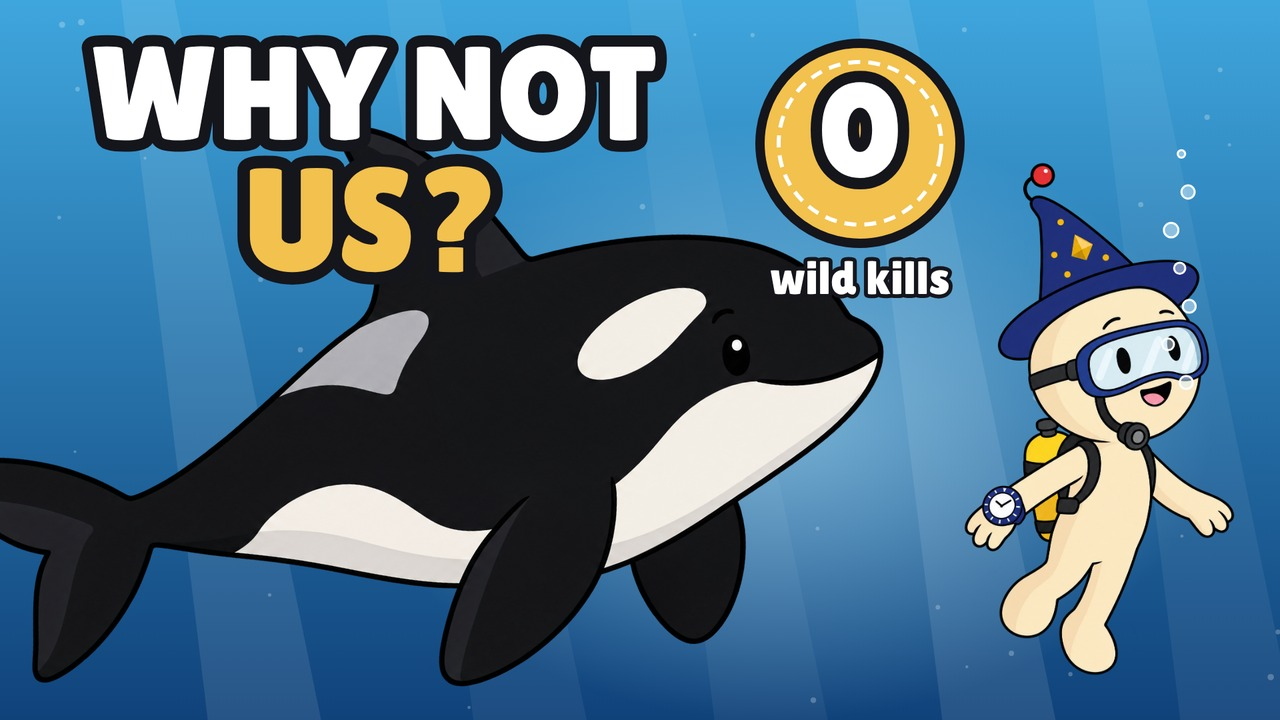
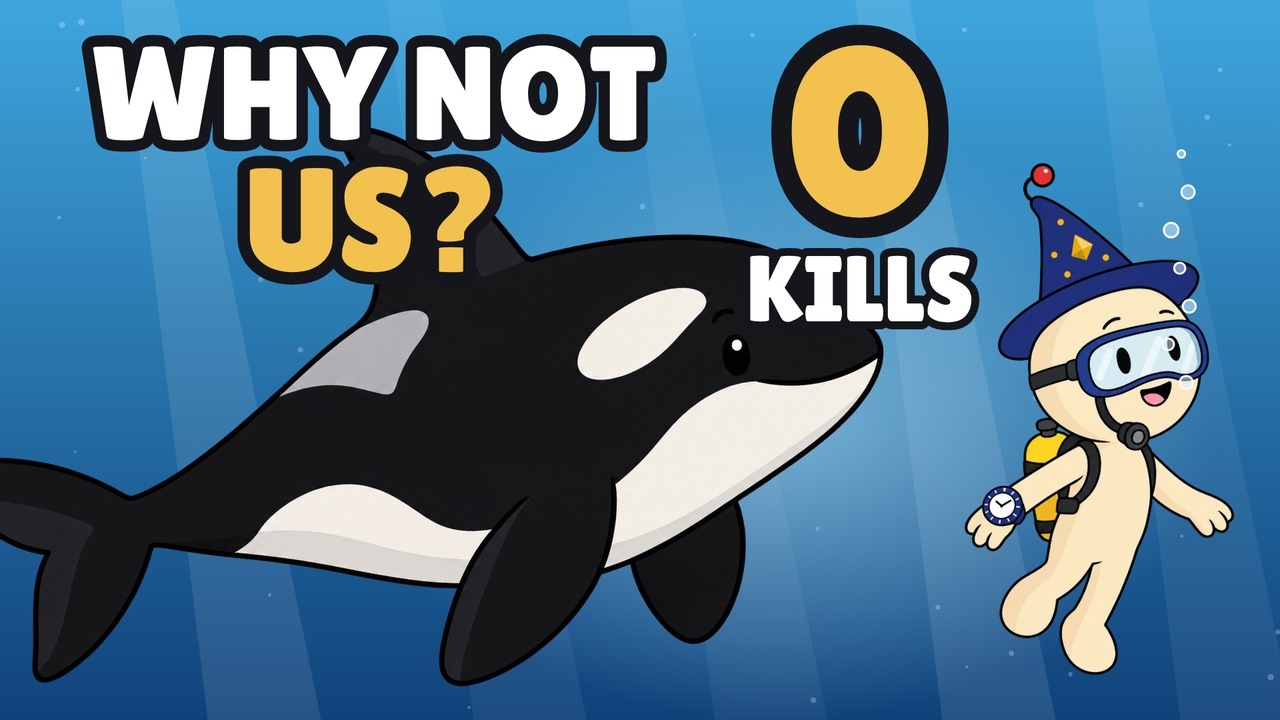
orcas thumbnail: big bold 0 KILLS instead of the ringed badge
Claude-Session: https://claude.ai/code/session_0158jjHhksK45HwiYqxYyVDT

Changed region(s): [[0.5625, 0.0306, 0.7812, 0.4583]]

diff --git a/dot-studio/src/longform/orcas/Thumbnail.tsx b/dot-studio/src/longform/orcas/Thumbnail.tsx
@@ -2,11 +2,10 @@ import React from 'react';
 import {AbsoluteFill} from 'remotion';
 import {DesignSpace} from '../../kit/DesignSpace';
 import {Label} from '../../kit/Label';
-import {WorldSvg} from '../../kit/effects/WorldSvg';
-import {Bubbles, Critter, DotRig, GOLD, H, INK, Underwater, W} from './parts';
+import {Bubbles, Critter, DotRig, GOLD, H, Underwater, W} from './parts';
 import {S} from './sprites';
 
-// YouTube thumbnail (16:9): a huge orca nose to nose with Dot, "WHY NOT US?" and a "0 wild kills" badge.
+// YouTube thumbnail (16:9): a huge orca nose to nose with Dot, "WHY NOT US?" and a big "0 KILLS".
 // Rendered as a still (images/orcas/thumbnail.mjs) and saved as out/orcas-longform-thumbnail.jpg (1280x720).
 export const OrcaThumbnail: React.FC = () => {
   const t = 1.3; // a frozen moment of the bob / light-ray animation
@@ -20,15 +19,9 @@ export const OrcaThumbnail: React.FC = () => {
         <Critter sp={S.orca} x={720} y={650} w={1450} t={t} bob={0} rot={-4} />
         <DotRig t={t} swaps={[{at: 0, pose: 'dot_scuba'}]} x={1640} y={1010} headR={128} />
         <Bubbles t={t} x={1770} y={600} n={7} />
-        {/* the "0" badge */}
-        <WorldSvg box={[0, 0, W, H]}>
-          <g transform="translate(1290 215) rotate(8)">
-            <circle r={150} fill={GOLD} stroke={INK} strokeWidth={14} />
-            <circle r={122} fill="none" stroke="#FFFFFF" strokeWidth={6} strokeDasharray="18 12" />
-          </g>
-        </WorldSvg>
-        <Label t={t} t0={-5} x={1290} y={205} size={200} color="#FFFFFF">0</Label>
-        <Label t={t} t0={-5} x={1290} y={420} size={70} color="#FFFFFF">wild kills</Label>
+        {/* a big bold "0 KILLS" (no badge: a ring round the zero read as a donut) */}
+        <Label t={t} t0={-5} x={1290} y={215} size={360} color={GOLD}>0</Label>
+        <Label t={t} t0={-5} x={1290} y={440} size={140} color="#FFFFFF">KILLS</Label>
         <Label t={t} t0={-5} x={560} y={150} size={200} color="#FFFFFF">WHY NOT</Label>
         <Label t={t} t0={-5} x={560} y={340} size={220} color={GOLD}>US?</Label>
       </DesignSpace>
